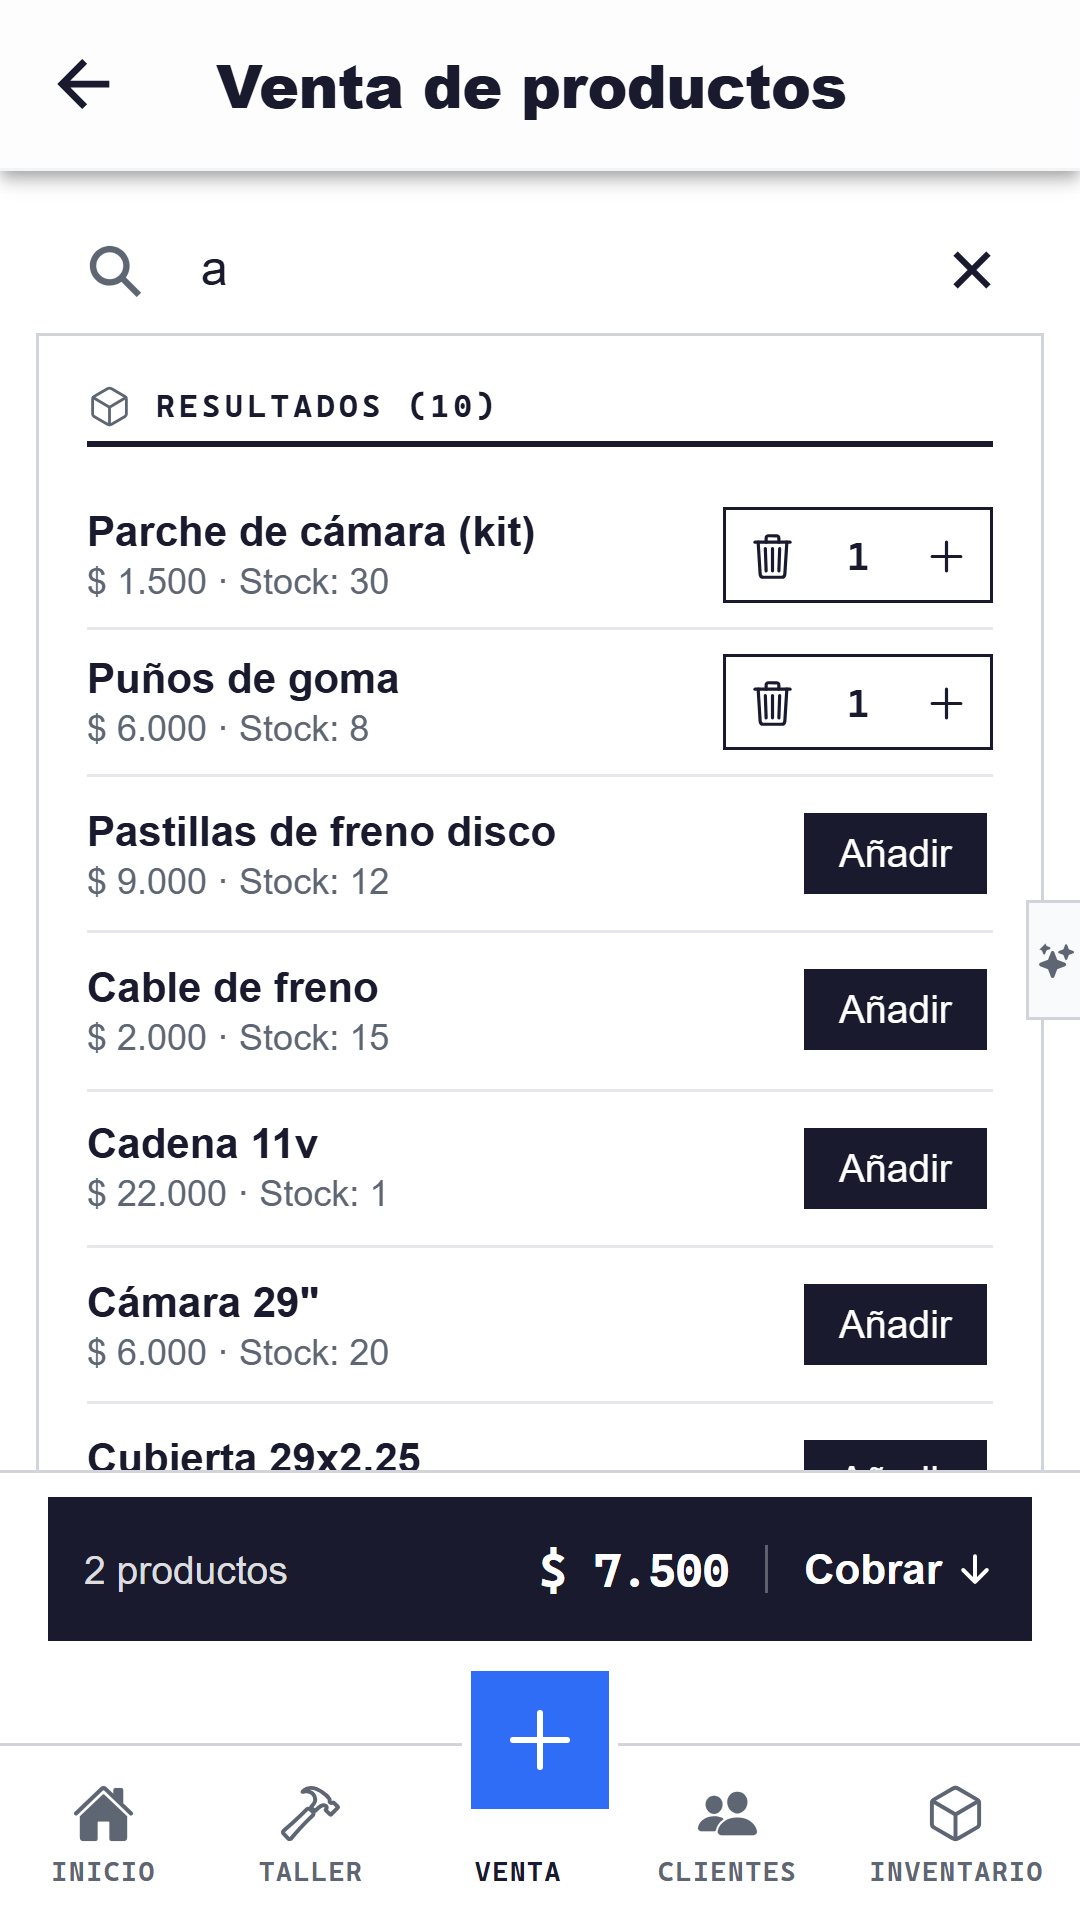
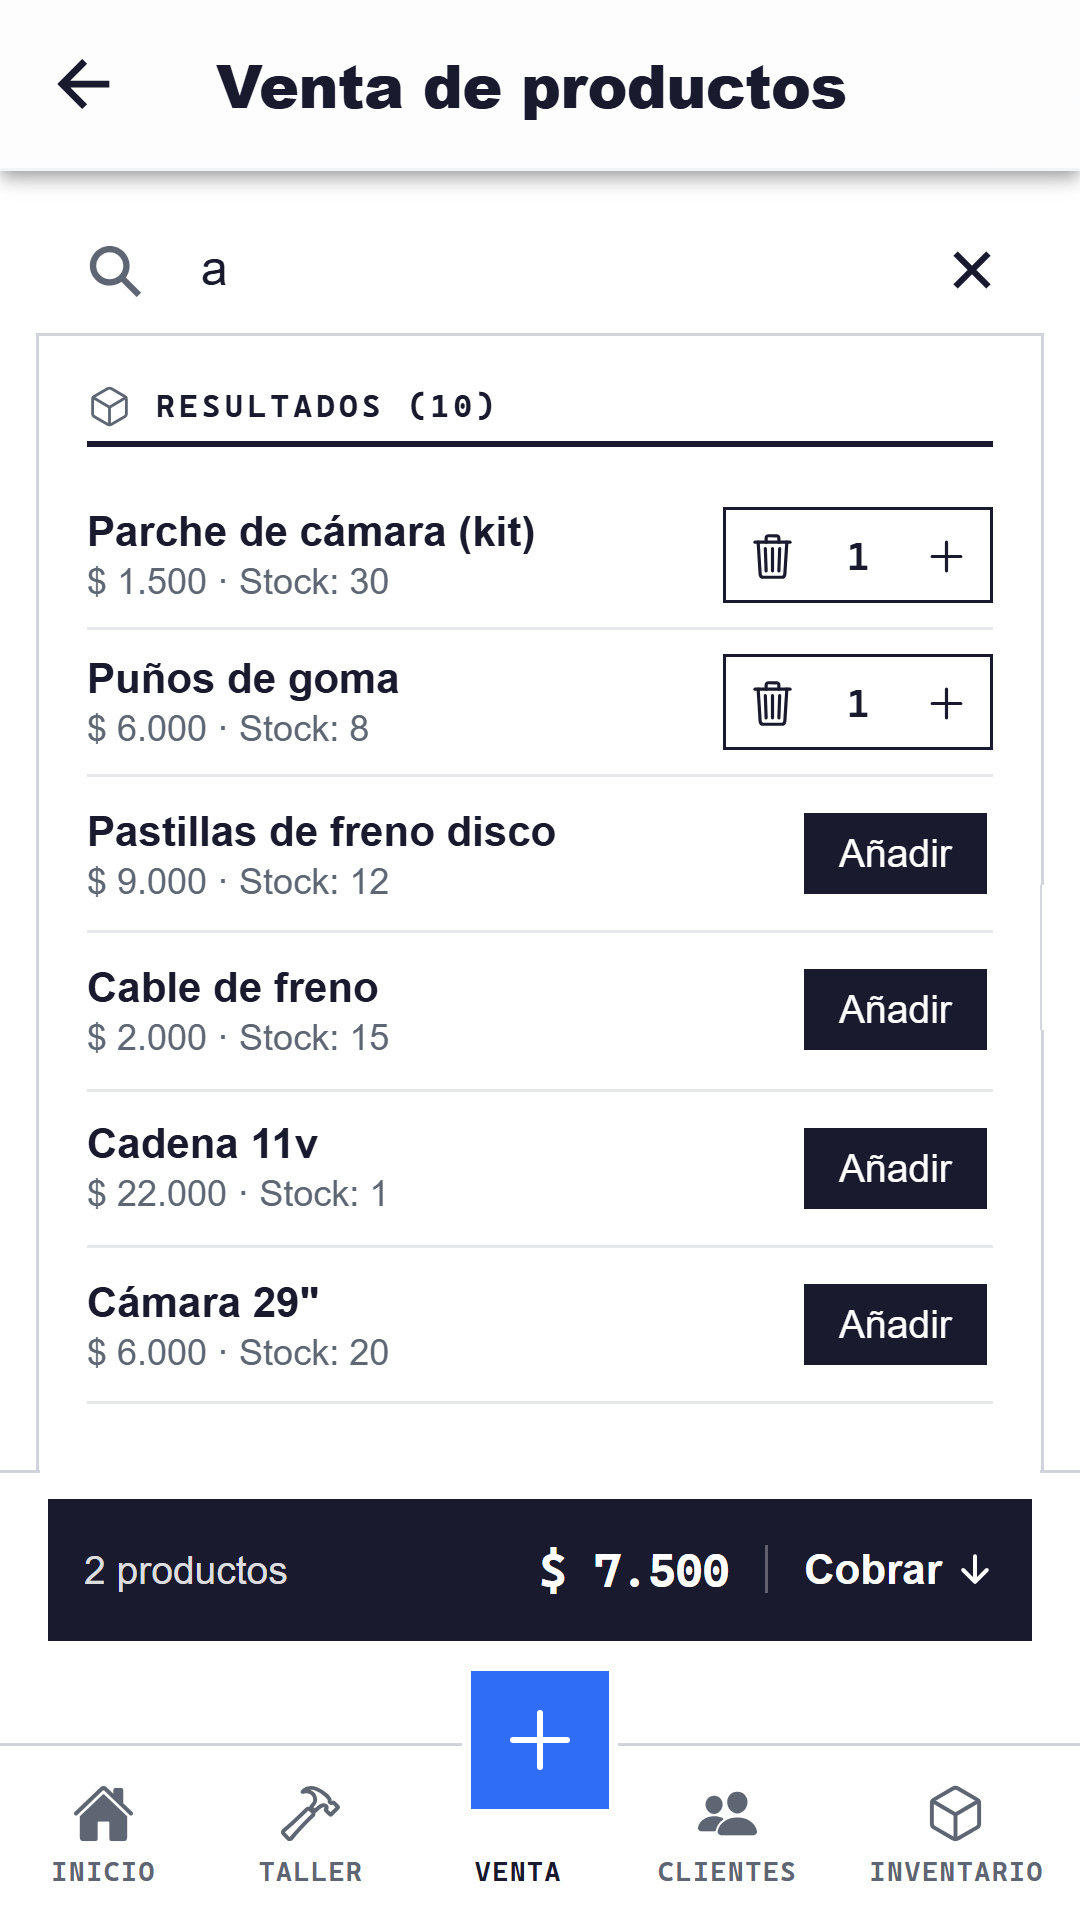
fix(hero): corregir imagen rota en pestana 1 Foto -> Catalogo usando venta-mostrador.png

Changed region(s): [[0.0611, 0.75, 0.3972, 0.7812], [0.7333, 0.75, 0.9167, 0.7812], [0.9472, 0.4688, 1.0, 0.5312]]

diff --git a/components/sitio/sorpresa-en-vivo.tsx b/components/sitio/sorpresa-en-vivo.tsx
@@ -167,12 +167,12 @@ export function SorpresaEnVivo() {
               </ol>
             </div>
             <div className="flex justify-center sm:col-span-6">
-              <AndroidFrame aspect="aspect-[9/19.5]" className="max-w-[195px] sm:max-w-[210px]">
+              <AndroidFrame aspect="aspect-[9/16]" className="max-w-[205px] sm:max-w-[215px]">
                 <Image
-                  src="/screenshots/servicios.png"
-                  alt="Catálogo de servicios cargado en MAZA con precios y tiempos estimados"
+                  src="/screenshots/venta-mostrador.png"
+                  alt="Catálogo de productos y precios cargado en MAZA con stock en tiempo real"
                   fill
-                  sizes="210px"
+                  sizes="215px"
                   className="object-contain object-top"
                 />
               </AndroidFrame>
